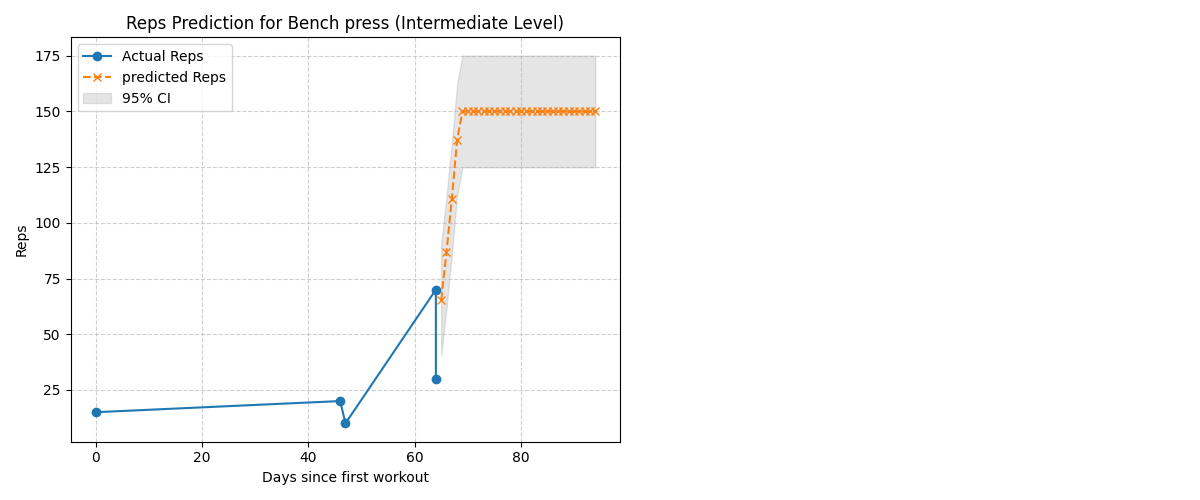
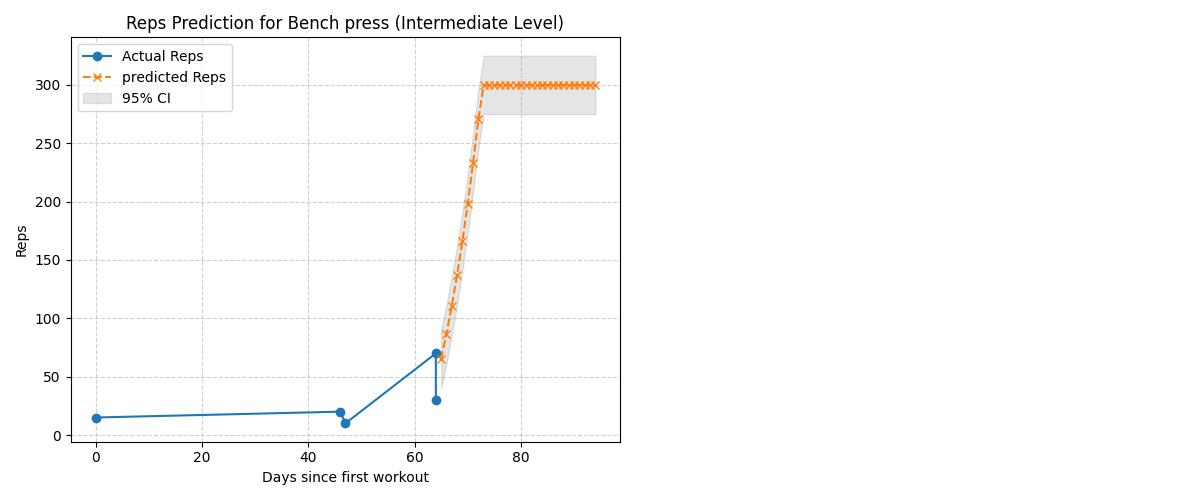
vd

diff --git a/predictor.py b/predictor.py
@@ -74,21 +74,24 @@ def predict(coeffs, x):
 
 # predict future reps and weight using Polynomial regression and user level implementation
 # Configures user level based on performance
-import numpy as np
+
 
 def predict_targets(dates, reps, weights, is_bodyweight=True, user_level="intermediate"):
+    # Convert dates to days since first workout
     days = np.array([(d - dates[0]).days for d in dates])
+    future_days = np.arange(days[-1] + 1, days[-1] + 31)  # next 30 days
 
+    # --- BODYWEIGHT BRANCH (pushups, situps, pullups) ---
     if is_bodyweight:
         last_reps = reps[-1]
-        # 🚨 Higher dynamic cap
-        base_max_reps = 300 if user_level == "intermediate" else 400
-        max_reps = max(base_max_reps, int(last_reps * 1.5))
+        base_max_reps = 400 if user_level == "intermediate" else 600
+        max_reps = max(base_max_reps, int(last_reps * 2))
 
+        # Weighted cubic polynomial regression
         weights_poly = np.linspace(1, 3, len(days))
         reps_coeffs = np.polyfit(days, reps, deg=3, w=weights_poly)
 
-        future_days = np.arange(days[-1] + 1, days[-1] + 31)
+        # Polynomial predictions
         future_reps = np.array([np.polyval(reps_coeffs, d) for d in future_days], dtype=float)
 
         # Clamp + slope enforcement
@@ -97,26 +100,28 @@ def predict_targets(dates, reps, weights, is_bodyweight=True, user_level="interm
             recent_slope = (reps[-1] - reps[-5]) / 5
         else:
             recent_slope = reps[-1] - reps[0]
+        slope_boost = 1.5  # multiplier to make curve surge
         for i in range(1, len(future_reps)):
             if future_reps[i] < future_reps[i-1]:
-                future_reps[i] = future_reps[i-1] + recent_slope
+                future_reps[i] = future_reps[i-1] + recent_slope * slope_boost
         future_reps = np.clip(future_reps, last_reps, max_reps)
 
+        # Confidence interval
         residuals = reps - np.array([np.polyval(reps_coeffs, d) for d in days])
         reps_ci = 1.96 * np.std(residuals)
 
         return days, future_days, future_reps, None, reps_ci, None, user_level
 
+    # --- WEIGHTED BRANCH (bench press, squat, deadlift) ---
     else:
         last_reps, last_weights = reps[-1], weights[-1]
-        # 🚨 Higher dynamic caps
-        max_reps = max(300, int(last_reps * 1.5))
-        max_weights = max(200, int(last_weights * 1.5))
+        max_reps = max(400, int(last_reps * 2))
+        max_weights = max(200, int(last_weights * 2))
 
+        # Polynomial regression
         reps_coeffs = np.polyfit(days, reps, deg=2)
         weights_coeffs = np.polyfit(days, weights, deg=2)
 
-        future_days = np.arange(days[-1] + 1, days[-1] + 31)
         future_reps = np.array([np.polyval(reps_coeffs, d) for d in future_days], dtype=float)
         future_weights = np.array([np.polyval(weights_coeffs, d) for d in future_days], dtype=float)
 
@@ -124,13 +129,13 @@ def predict_targets(dates, reps, weights, is_bodyweight=True, user_level="interm
         future_reps = np.clip(future_reps, last_reps, max_reps)
         future_weights = np.clip(future_weights, last_weights, max_weights)
 
+        # Confidence intervals
         reps_residuals = reps - np.array([np.polyval(reps_coeffs, d) for d in days])
         weights_residuals = weights - np.array([np.polyval(weights_coeffs, d) for d in days])
         reps_ci = 1.96 * np.std(reps_residuals)
         weights_ci = 1.96 * np.std(weights_residuals)
 
-        return days, future_days, future_reps, future_weights, reps_ci, weights_ci, user_level, weights, reps_ci, weights_ci, user_level
-
+        return days, future_days, future_reps, future_weights, reps_ci, weights_ci, user_level
 
 # actual vs  prediction plot
 
